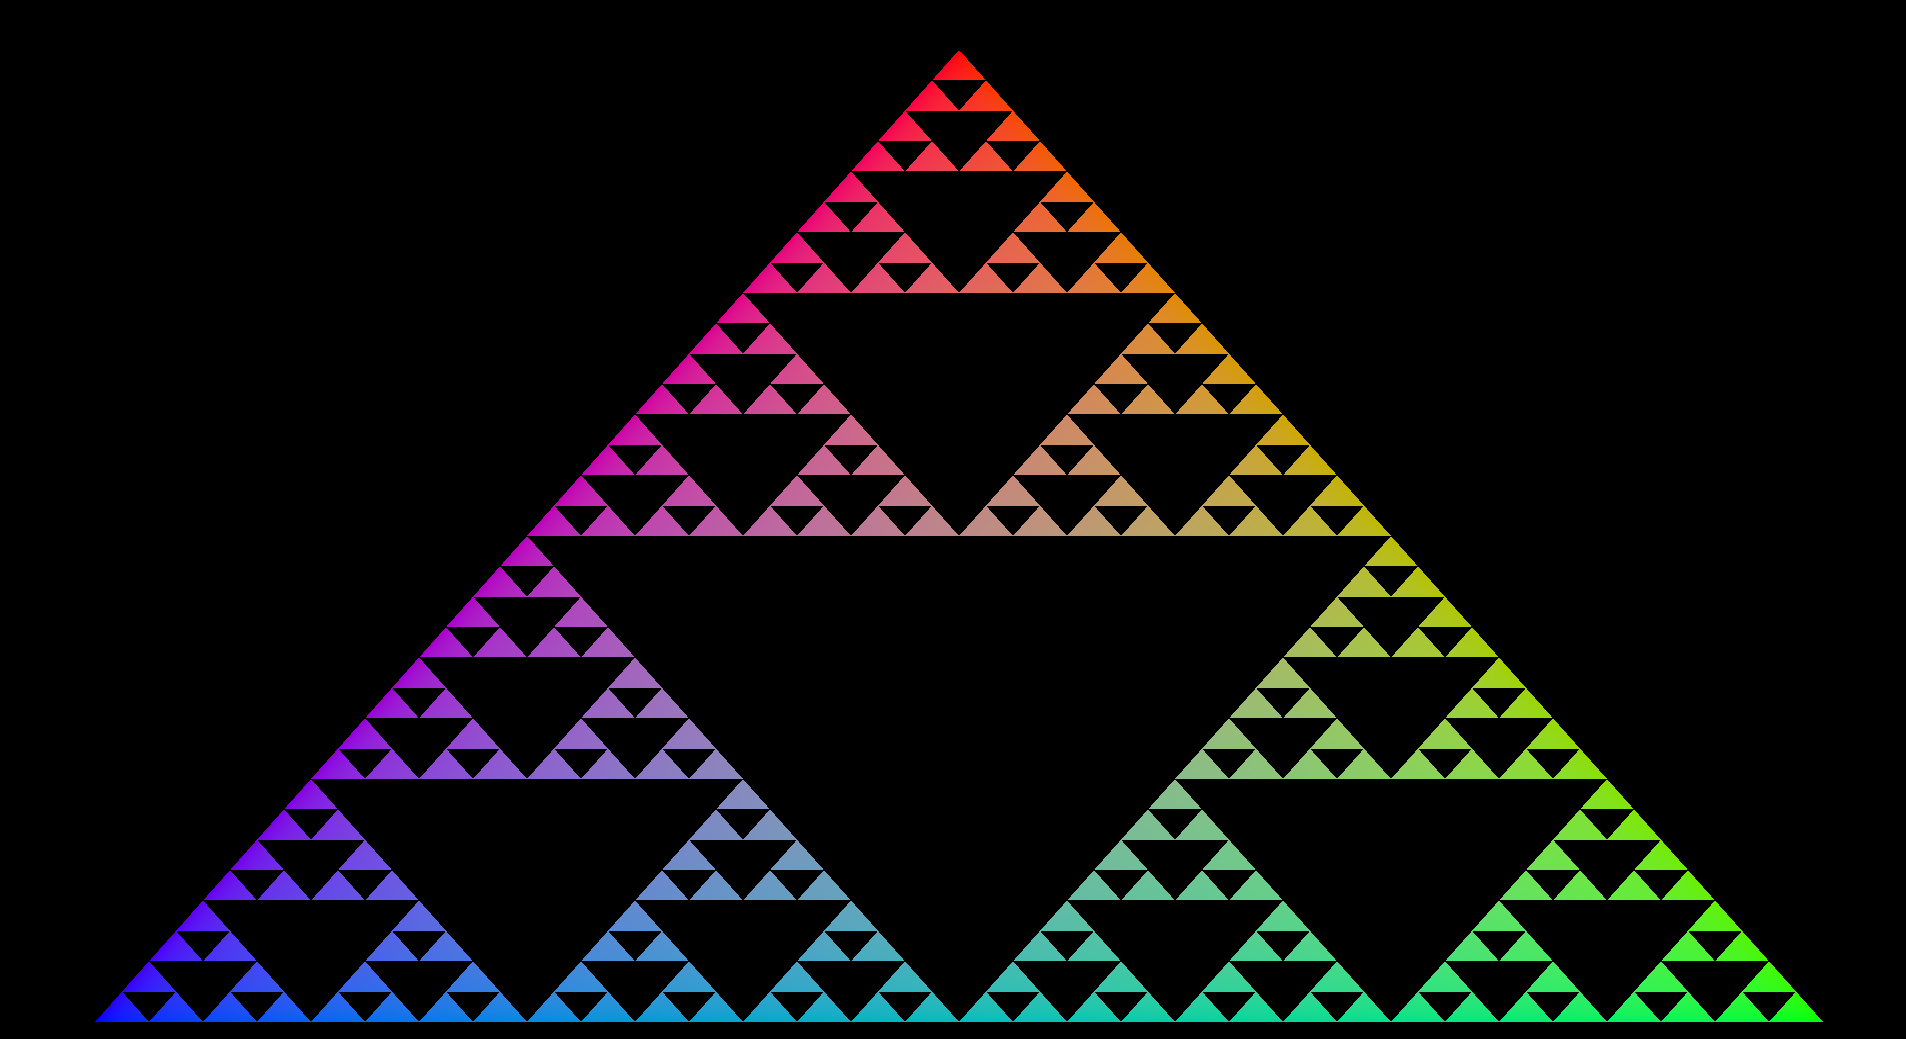
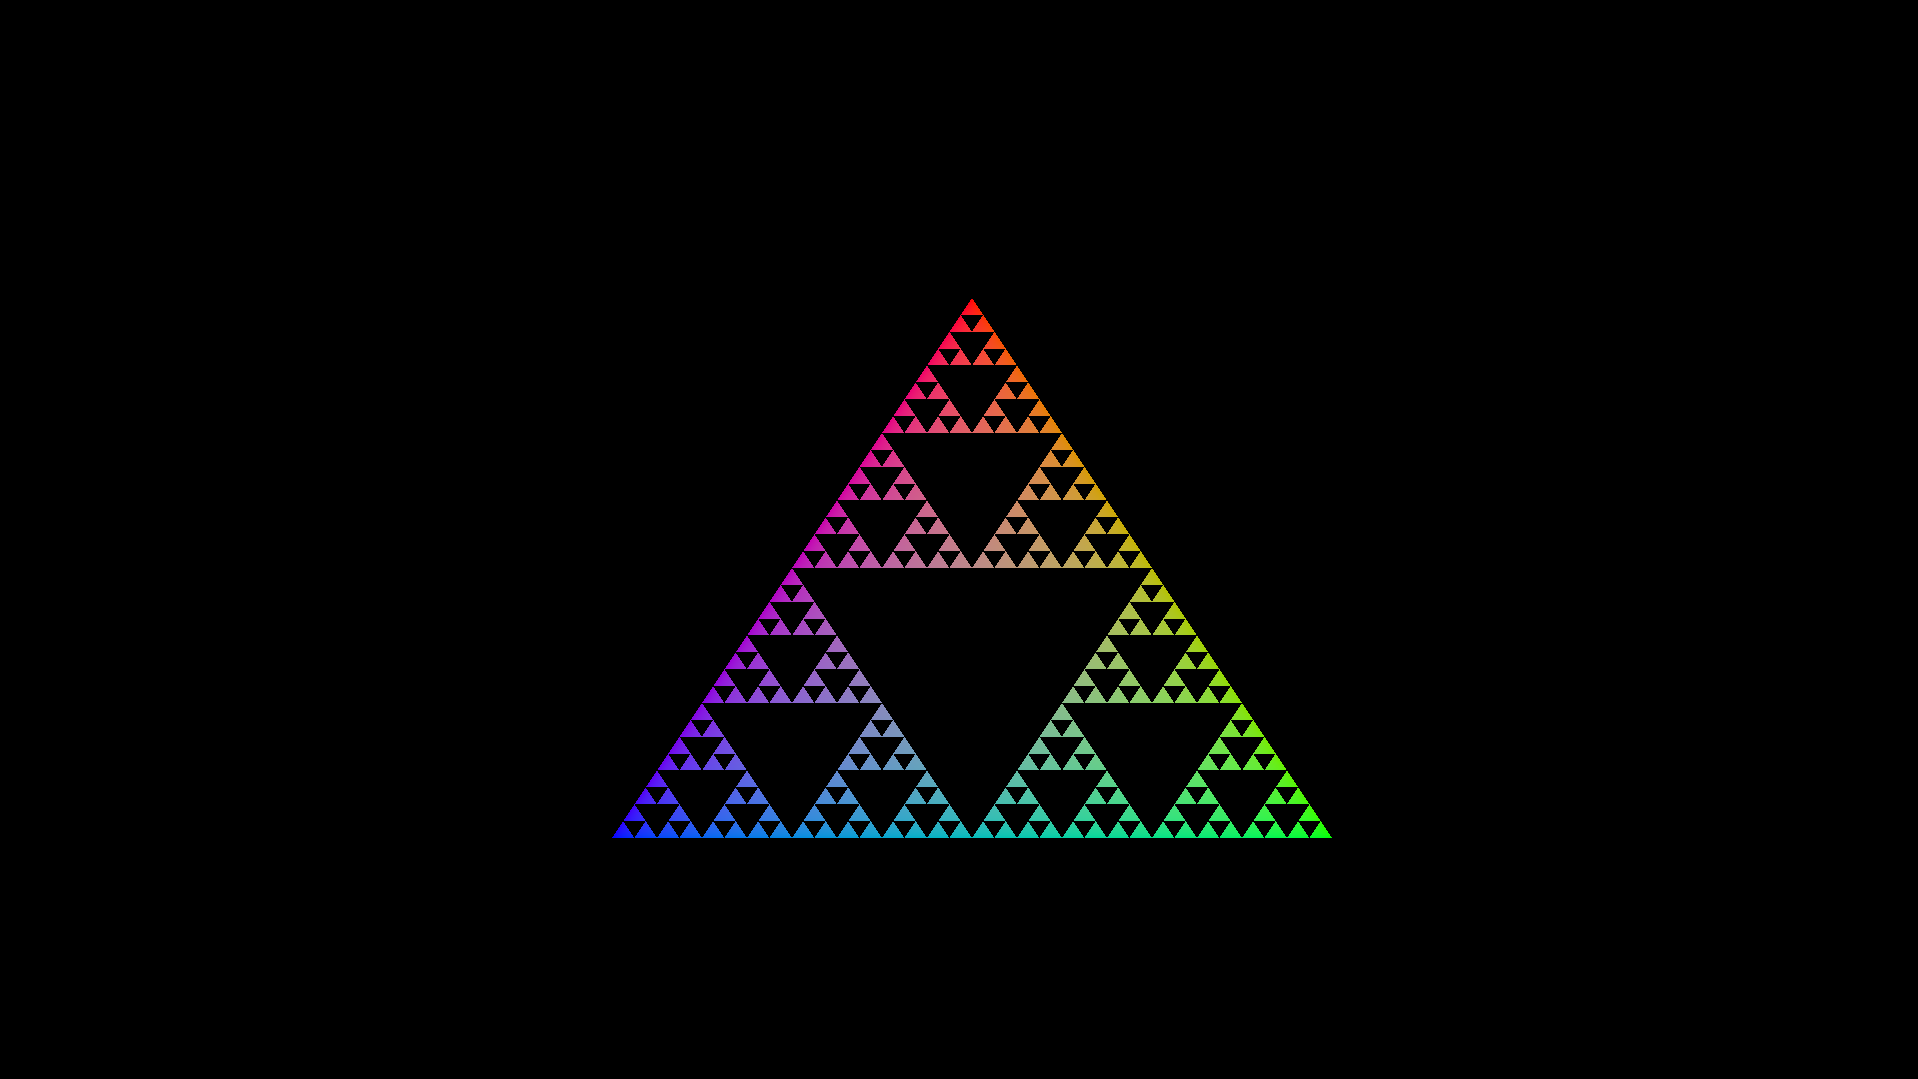
Updated readme

Changed region(s): [[0.031, 0.0616, 0.9596, 0.9856]]

diff --git a/README.md b/README.md
@@ -7,24 +7,24 @@ Welcome to my Vulkan API tutorial repository! This repository represents my pers
     <tr>
       <td>
         <a href="https://github.com/szabo-krisztian/VkTutorial/tree/master/code/finished-projects/sierpinski-triangle" target="_blank">
-          <img src="https://github.com/szabo-krisztian/VkTutorial/blob/master/images/fractal.png?raw=true" width="300" alt="Fractal"/>
+          <img src="https://github.com/szabo-krisztian/VkTutorial/blob/master/images/fractal.png?raw=true" width="400" alt="Fractal"/>
         </a>
       </td>
       <td>
         <a href="https://github.com/szabo-krisztian/VkTutorial/tree/master/code/finished-projects/rotating-cube" target="_blank">
-          <img src="https://github.com/szabo-krisztian/VkTutorial/blob/master/images/spinning_cube.gif" width="300" alt="Spinning Cube"/>
+          <img src="https://github.com/szabo-krisztian/VkTutorial/blob/master/images/spinning_cube.gif" width="400" alt="Spinning Cube"/>
         </a>
       </td>
     </tr>
     <tr>
       <td>
         <a href="https://github.com/szabo-krisztian/VkTutorial/tree/master/code/finished-projects/mesh-shooter" target="_blank">
-          <img src="https://github.com/szabo-krisztian/VkTutorial/blob/master/images/mesh_shooter.gif" width="300" alt="Mesh Shooter"/>
+          <img src="https://github.com/szabo-krisztian/VkTutorial/blob/master/images/mesh_shooter.gif" width="400" alt="Mesh Shooter"/>
         </a>
       </td>
       <td>
         <a href="https://github.com/szabo-krisztian/VkTutorial/tree/master/code/finished-projects/mesh-division" target="_blank">
-          <img src="https://github.com/szabo-krisztian/VkTutorial/blob/master/images/icosahedron.gif" width="300" alt="Icosahedron"/>
+          <img src="https://github.com/szabo-krisztian/VkTutorial/blob/master/images/icosahedron.gif" width="400" alt="Icosahedron"/>
         </a>
       </td>
     </tr>
